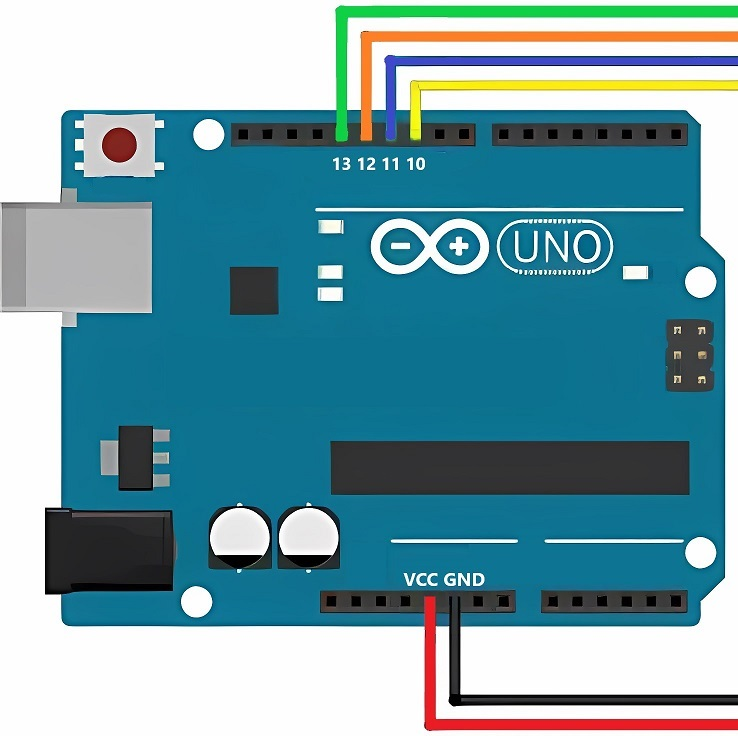
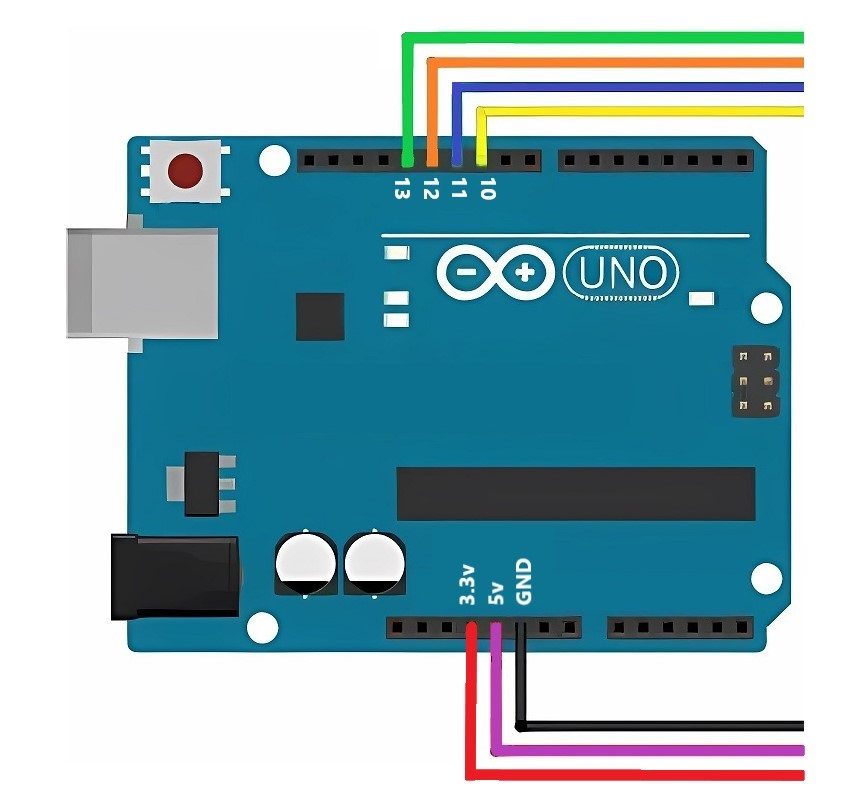
add arduino flashing instructions, fix pin colors

diff --git a/atmega/README.md b/atmega/README.md
@@ -11,7 +11,14 @@ This guide provides step-by-step instructions for flashing the necessary firmwar
    - [Wiring](#wiring)
    - [Configuring avrdude](#configuring-avrdude)
    - [Flashing](#flashing)
-
+4. [Flashing with Arduino](#flashing-with-arduino)
+   - [Connecting to the Arduino](#connecting-to-the-arduino)
+   - [Modifying boards.txt configuration](#modifying-boardstxt-configuration)
+   - [Setting Up Arduino as ISP](#setting-up-arduino-as-isp)
+   - [Flashing](#flashing-1)
+5. [Creating Custom Firmware](#creating-custom-firmware)
+6. [Troubleshooting](#troubleshooting)
+7. [Future Updates](#future-updates)
 
 ## Connection
 
@@ -24,10 +31,10 @@ Before flashing the firmware, you need to wire a connection with the ATmega8A ch
 Regardless of your chosen method, you'll need to connect to these points on the PSPi board (colors will stay consistent throughout the guide):
 - 🔴 VCC
 - ⚫ GND (use a ground pin on the 40-pin header if you have a PCB version earlier than 1.2)
-- 🟡 Clock
-- 🟢 Reset
-- 🔵 MOSI
+- 🟢 Clock
 - 🟠 MISO
+- 🔵 MOSI
+- 🟡 Reset
 
 ## Firmware and Fuses
 
@@ -43,10 +50,10 @@ Before you begin the flashing process, you need to connect the PSPi board to you
 
 - 🔴 Connect VCC to Raspberry Pi 3.3V (Pin 1 or 17)
 - ⚫ Connect GND to any Raspberry Pi GND pin (e.g., Pin 6)
-- 🟡 Connect Clock to Raspberry Pi GPIO3 (Pin 5)
-- 🟢 Connect Reset to Raspberry Pi GPIO2 (Pin 3)
-- 🔵 Connect MOSI to Raspberry Pi GPIO5 (Pin 29)
-- 🟠 Connect MISO to Raspberry Pi GPIO6 (Pin 31)
+- 🟢 Connect Clock to Raspberry Pi GPIO3
+- 🟠 Connect MISO to Raspberry Pi GPIO6
+- 🔵 Connect MOSI to Raspberry Pi GPIO5
+- 🟡 Connect Reset to Raspberry Pi GPIO2
 
 Ensure all connections are secure and not bridged before proceeding with the flashing process.
 
@@ -92,6 +99,105 @@ Ensure all connections are secure and not bridged before proceeding with the fla
 
 After successful flashing, disconnect the wires from your Raspberry Pi. The PSPi board is ready to use.
 
+## Flashing with Arduino
+
+The process for flashing with Arduino is similar to the Raspberry Pi method, but with a few key differences. Most importantly, we'll be using a level shifter to protect the PSPi board from voltage damage.
+
+### Connecting to the Arduino
+
+Before beginning the flashing process, you need to connect the PSPi board to your Arduino using a level shifter. This is crucial to protect the voltage regulator on the PSPi board from damage, as the ATmega operates at 5V but the PSPi board requires 3.0-3.3V.
+
+![Arduino to PSPi Connections](/atmega/images/arduino.jpg)
+
+![Level Shifter Connections](/atmega/images/level-shifter.jpg)
+
+Here's how to make the connections:
+
+1. Arduino to Level Shifter connections:
+   - 🔴 Connect Arduino 5V to the level shifter's HV (high voltage) side
+   - 🟣 Connect Arduino 3.3V to the level shifter's LV (low voltage) side
+   - ⚫ Connect Arduino GND to both GND pins on the level shifter
+   - 🟢 Connect Arduino Pin 13 (Clock) to the level shifter's HV4
+   - 🟠 Connect Arduino Pin 12 (MISO) to the level shifter's HV3
+   - 🔵 Connect Arduino Pin 11 (MOSI) to the level shifter's HV2
+   - 🟡 Connect Arduino Pin 10 (Reset) to the level shifter's HV1
+
+
+2. Level Shifter to PSPi connections:
+   - 🔴 Connect the level shifter's LV to PSPi VCC
+   - ⚫ Connect the level shifter's GND to PSPi GND
+   - 🟢 Connect the level shifter's LV4 to PSPi Clock
+   - 🟠 Connect the level shifter's LV3 to PSPi MISO
+   - 🔵 Connect the level shifter's LV2 to PSPi MOSI
+   - 🟡 Connect the level shifter's LV1 to PSPi Reset
+
+
+### Modifying boards.txt configuration
+
+Before flashing the firmware using Arduino, you need to modify the boards.txt file to add support for the ATmega8A:
+
+1. Locate your Arduino IDE installation directory.
+2. Navigate to the `C:\Program Files (x86)\Arduino\hardware\arduino\avr` directory.
+3. Open the `boards.txt` file in a text editor.
+4. Add the following lines at the end of the file:
+
+```
+atmega8a_nb.name=ATmega8A (8MHz Internal, No bootloader)
+atmega8a_nb.upload.tool=avrdude
+atmega8a_nb.upload.protocol=arduino
+atmega8a_nb.upload.maximum_size=8192
+atmega8a_nb.upload.maximum_data_size=1024
+atmega8a_nb.bootloader.tool=avrdude
+atmega8a_nb.bootloader.low_fuses=0xE4
+atmega8a_nb.bootloader.high_fuses=0xDC
+atmega8a_nb.bootloader.unlock_bits=0x3F
+atmega8a_nb.bootloader.lock_bits=0x0F
+atmega8a_nb.bootloader.file=empty.hex
+atmega8a_nb.build.mcu=atmega8a
+atmega8a_nb.build.f_cpu=8000000L
+atmega8a_nb.build.core=arduino:arduino
+atmega8a_nb.build.variant=arduino:standard
+atmega8a_nb.build.board=atmega8a
+atmega8a_nb.recipe.size.regex=^(?:\.text|\.data|\.bootloader)\s+([0-9]+).*
+atmega8a_nb.recipe.size.regex.data=^(?:\.data|\.bss)\s+([0-9]+).*
+atmega8a_nb.recipe.size.regex.eeprom=^\.eeprom\s+([0-9]+).*
+```
+
+5. Save the file and restart the Arduino IDE.
+
+### Setting Up Arduino as ISP
+
+This configures the Arduino as a connection point between the PC and the microcontroller on the PSPi.
+
+1. In Arduino IDE, go to File > Examples > 11.ArduinoISP > ArduinoISP.
+2. Select Tools > Board > Arduino Uno.
+3. Select Tools > Programmer > AVRISP MKII.
+4. Upload the sketch to your Arduino.
+
+### Flashing
+
+1. Select Tools > Board > ATmega8A (8MHz Internal, No bootloader).
+2. Select Tools > Programmer > Arduino as ISP.
+3. To flash the fuses:
+   - Go to Tools > Burn Bootloader.
+4. To flash the firmware:
+   - Go to Sketch > Upload Using Programmer.
+
+**Note:** You will see an error regarding a missing empty.hex file when flashing the fuses. It doesn't affect the process, but if you want to eliminate the error, copy [empty.hex](https://github.com/othermod/PSPi-Version-6/tree/main/atmega/empty.hex) to `C:\Program Files (x86)\Arduino\hardware\arduino\avr\bootloaders`.
+
+After successful flashing, disconnect all wires from the Arduino and level shifter. The PSPi board is now ready to use.
+
+## Creating Custom Firmware
+
+If you want to create your own custom firmware for the ATmega8A, you'll need to follow the same steps for modifying the boards.txt file as described in the [Modifying boards.txt configuration](#modifying-boardstxt-configuration) section above. After configuring the Arduino IDE, you can develop your custom firmware, compile it, and then flash it to the ATmega8A using the same steps outlined in the [Flashing with Arduino](#flashing-with-arduino) section.
+
+## Troubleshooting
+
+- If you encounter errors during flashing, double-check all connections.
+- For the pogo pin setup, ensure all pins are making good contact with the board.
+- If using direct soldering, verify that there are no solder bridges or cold joints.
+- Ensure you're using the correct GPIO numbers (for Raspberry Pi) or pin numbers (for Arduino).
+- Verify that the ATmega8A firmware file is in the correct location.
 
 ## Future Updates
 
